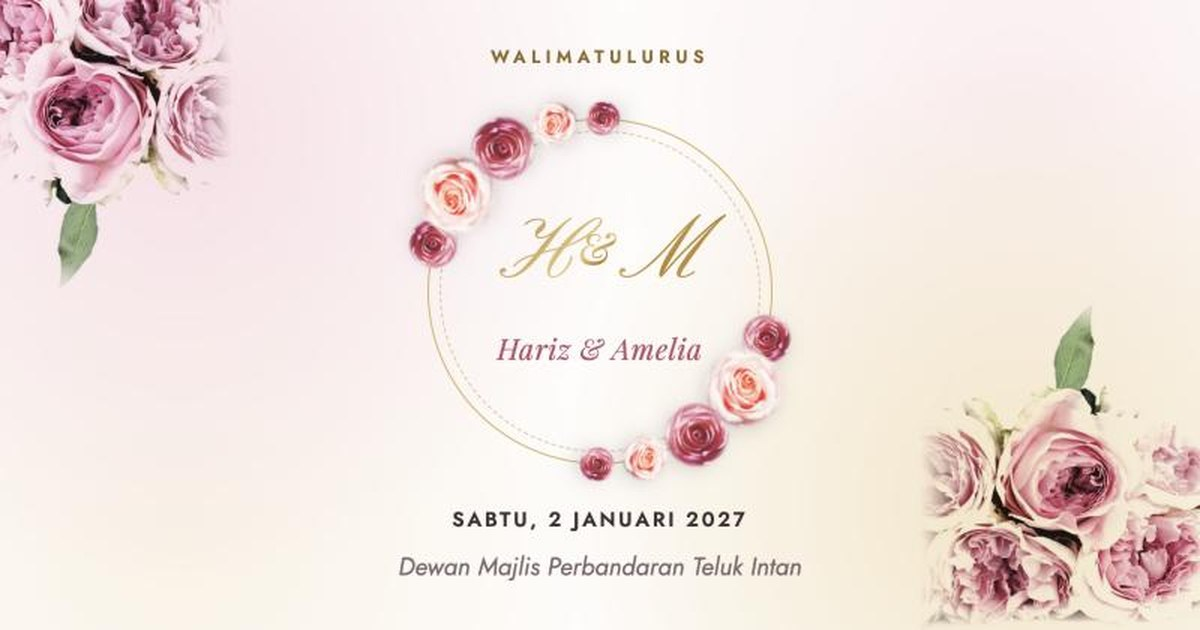
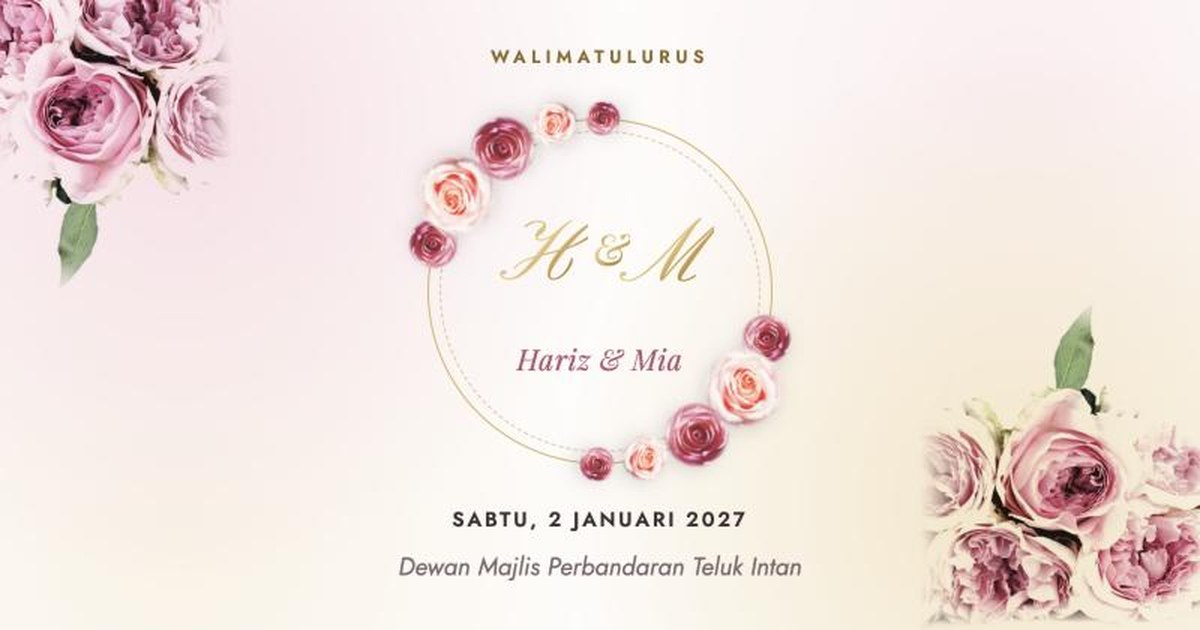
Remove RSVP, rename to Hariz & Mia, tighten monogram, stop sideways scroll
- Remove the RSVP section, its menu item, code and styles
- Short names now Hariz & Mia (page title, calendar file, preview image)
- Pull the M closer to the ampersand
- Clip the flower corners so the page no longer scrolls sideways on phones

Changed region(s): [[0.4008, 0.3317, 0.6167, 0.4524], [0.4008, 0.5429, 0.5858, 0.6032]]

diff --git a/index.html b/index.html
@@ -1,17 +1,18 @@
 <!doctype html>
 <html lang="ms">
+
 <head>
   <meta charset="utf-8" />
   <meta name="viewport" content="width=device-width, initial-scale=1" />
-  <title>Walimatulurus Hariz &amp; Amelia</title>
-  <meta name="description" content="Jemputan ke majlis perkahwinan Hariz &amp; Amelia, 2 Januari 2027, Teluk Intan." />
+  <title>Walimatulurus Hariz &amp; Mia</title>
+  <meta name="description" content="Jemputan ke majlis perkahwinan Hariz &amp; Mia, 2 Januari 2027, Teluk Intan." />
   <meta name="theme-color" content="#fffcfa" />
 
   <!-- Link preview card for WhatsApp, Facebook, Telegram etc.
        Uses the Cloudflare Pages address; change it here if the site moves (keep the trailing /). -->
   <meta property="og:type" content="website" />
   <meta property="og:url" content="https://hariz-amelia-weddinginvitation.pages.dev/" />
-  <meta property="og:title" content="Walimatulurus Hariz &amp; Amelia" />
+  <meta property="og:title" content="Walimatulurus Hariz &amp; Mia" />
   <meta property="og:description" content="Sabtu, 2 Januari 2027 · Dewan Majlis Perbandaran Teluk Intan. Anda dijemput hadir." />
   <meta property="og:image" content="https://hariz-amelia-weddinginvitation.pages.dev/assets/og-image.jpg" />
   <meta property="og:image:width" content="1200" />
@@ -22,25 +23,55 @@
   <link href="https://fonts.googleapis.com/css2?family=Amiri&family=Jost:ital,wght@0,400;0,500;0,600;1,400&family=Pinyon+Script&family=Playfair+Display:ital,wght@0,400;0,500;1,400;1,500&display=swap" rel="stylesheet" />
   <link rel="stylesheet" href="style.css" />
 </head>
+
 <body class="locked">
 
   <!-- Outline icons, reused with <use href="#i-name"> -->
   <svg width="0" height="0" style="position:absolute" aria-hidden="true">
     <defs>
       <!-- Outline icons for buttons: <svg class="icon"><use href="#i-name" /></svg> -->
-      <symbol id="i-mail-open" viewBox="0 0 24 24"><path d="M3 10.5 12 4l9 6.5V19a2 2 0 0 1-2 2H5a2 2 0 0 1-2-2z" /><path d="m3 10.5 9 6 9-6" /></symbol>
-      <symbol id="i-calendar" viewBox="0 0 24 24"><rect x="3" y="5" width="18" height="16" rx="3" /><path d="M3 10h18M8 3v4M16 3v4" /></symbol>
-      <symbol id="i-calendar-plus" viewBox="0 0 24 24"><rect x="3" y="5" width="18" height="16" rx="3" /><path d="M3 10h18M8 3v4M16 3v4M12 13v5M9.5 15.5h5" /></symbol>
-      <symbol id="i-check-circle" viewBox="0 0 24 24"><circle cx="12" cy="12" r="9" /><path d="m8 12.5 2.7 2.7L16 9.5" /></symbol>
-      <symbol id="i-x-circle" viewBox="0 0 24 24"><circle cx="12" cy="12" r="9" /><path d="m9 9 6 6M15 9l-6 6" /></symbol>
-      <symbol id="i-copy" viewBox="0 0 24 24"><rect x="9" y="9" width="12" height="12" rx="2" /><path d="M5 15H4.5A1.5 1.5 0 0 1 3 13.5v-9A1.5 1.5 0 0 1 4.5 3h9A1.5 1.5 0 0 1 15 4.5V5" /></symbol>
-      <symbol id="i-check" viewBox="0 0 24 24"><path d="m5 12.5 4.5 4.5L19 7" /></symbol>
-      <symbol id="i-pause" viewBox="0 0 24 24"><path d="M9 6v12M15 6v12" /></symbol>
-      <symbol id="i-scroll" viewBox="0 0 24 24"><path d="m7 6 5 5 5-5M7 13l5 5 5-5" /></symbol>
-      <symbol id="i-music" viewBox="0 0 24 24"><path d="M9 18V5l11-2v13" /><circle cx="6" cy="18" r="3" /><circle cx="17" cy="16" r="3" /></symbol>
-      <symbol id="i-music-off" viewBox="0 0 24 24"><path d="M9 18V5l11-2v13" /><circle cx="6" cy="18" r="3" /><circle cx="17" cy="16" r="3" /><path d="m3 3 18 18" /></symbol>
-      <symbol id="i-phone" viewBox="0 0 24 24"><path d="M5 4h3l2 5-2.5 1.5a11 11 0 0 0 6 6L15 14l5 2v3a2 2 0 0 1-2 2A16 16 0 0 1 3 6a2 2 0 0 1 2-2z" /></symbol>
-      <symbol id="i-chat" viewBox="0 0 24 24"><path d="M20 11.5a8 8 0 0 1-11.6 7.1L4 20l1.1-4.1A8 8 0 1 1 20 11.5z" /></symbol>
+      <symbol id="i-mail-open" viewBox="0 0 24 24">
+        <path d="M3 10.5 12 4l9 6.5V19a2 2 0 0 1-2 2H5a2 2 0 0 1-2-2z" />
+        <path d="m3 10.5 9 6 9-6" />
+      </symbol>
+      <symbol id="i-calendar" viewBox="0 0 24 24">
+        <rect x="3" y="5" width="18" height="16" rx="3" />
+        <path d="M3 10h18M8 3v4M16 3v4" />
+      </symbol>
+      <symbol id="i-calendar-plus" viewBox="0 0 24 24">
+        <rect x="3" y="5" width="18" height="16" rx="3" />
+        <path d="M3 10h18M8 3v4M16 3v4M12 13v5M9.5 15.5h5" />
+      </symbol>
+      <symbol id="i-copy" viewBox="0 0 24 24">
+        <rect x="9" y="9" width="12" height="12" rx="2" />
+        <path d="M5 15H4.5A1.5 1.5 0 0 1 3 13.5v-9A1.5 1.5 0 0 1 4.5 3h9A1.5 1.5 0 0 1 15 4.5V5" />
+      </symbol>
+      <symbol id="i-check" viewBox="0 0 24 24">
+        <path d="m5 12.5 4.5 4.5L19 7" />
+      </symbol>
+      <symbol id="i-pause" viewBox="0 0 24 24">
+        <path d="M9 6v12M15 6v12" />
+      </symbol>
+      <symbol id="i-scroll" viewBox="0 0 24 24">
+        <path d="m7 6 5 5 5-5M7 13l5 5 5-5" />
+      </symbol>
+      <symbol id="i-music" viewBox="0 0 24 24">
+        <path d="M9 18V5l11-2v13" />
+        <circle cx="6" cy="18" r="3" />
+        <circle cx="17" cy="16" r="3" />
+      </symbol>
+      <symbol id="i-music-off" viewBox="0 0 24 24">
+        <path d="M9 18V5l11-2v13" />
+        <circle cx="6" cy="18" r="3" />
+        <circle cx="17" cy="16" r="3" />
+        <path d="m3 3 18 18" />
+      </symbol>
+      <symbol id="i-phone" viewBox="0 0 24 24">
+        <path d="M5 4h3l2 5-2.5 1.5a11 11 0 0 0 6 6L15 14l5 2v3a2 2 0 0 1-2 2A16 16 0 0 1 3 6a2 2 0 0 1 2-2z" />
+      </symbol>
+      <symbol id="i-chat" viewBox="0 0 24 24">
+        <path d="M20 11.5a8 8 0 0 1-11.6 7.1L4 20l1.1-4.1A8 8 0 1 1 20 11.5z" />
+      </symbol>
     </defs>
   </svg>
 
@@ -62,7 +93,9 @@
       </div>
       <p class="date-line" data-bind="dateLong"></p>
       <p class="to">Kepada tetamu yang dihormati</p>
-      <button id="openBtn" class="btn btn-primary"><svg class="icon" aria-hidden="true"><use href="#i-mail-open" /></svg> Buka Jemputan</button>
+      <button id="openBtn" class="btn btn-primary"><svg class="icon" aria-hidden="true">
+          <use href="#i-mail-open" />
+        </svg> Buka Jemputan</button>
     </div>
   </div>
 
@@ -157,28 +190,6 @@
       </div>
     </section>
 
-    <section class="section" id="rsvp">
-      <h3 class="title">RSVP</h3>
-      <p class="small">Sila sahkan kehadiran anda sebelum <strong data-bind="rsvpBy"></strong></p>
-      <form id="rsvpForm" class="form">
-        <label>Nama<input name="name" required autocomplete="name" placeholder="Nama penuh" /></label>
-        <label>No. Telefon<input name="phone" type="tel" autocomplete="tel" placeholder="01X-XXXXXXX" /></label>
-        <fieldset class="choice">
-          <legend>Kehadiran</legend>
-          <label><input type="radio" name="attend" value="Hadir" checked /> <span><svg class="icon" aria-hidden="true"><use href="#i-check-circle" /></svg> Hadir</span></label>
-          <label><input type="radio" name="attend" value="Tidak Hadir" /> <span><svg class="icon" aria-hidden="true"><use href="#i-x-circle" /></svg> Tidak Hadir</span></label>
-        </fieldset>
-        <label id="paxField">Bilangan Tetamu
-          <select name="pax">
-            <option>1</option><option>2</option><option>3</option><option>4</option><option>5</option>
-            <option>6</option><option>7</option><option>8</option><option>9</option><option>10</option>
-          </select>
-        </label>
-        <button class="btn btn-primary" type="submit">Hantar RSVP</button>
-        <p class="form-status" role="status"></p>
-      </form>
-    </section>
-
     <section class="section" id="ucapan">
       <h3 class="title">Ucapan</h3>
       <form id="wishForm" class="form">
@@ -204,7 +215,9 @@
         <p class="value account" data-bind="bankAccount"></p>
         <p class="small" id="bankHolder" data-bind="bankHolder"></p>
         <div class="actions">
-          <button id="copyBtn" class="btn btn-ghost" type="button"><svg class="icon" aria-hidden="true"><use href="#i-copy" /></svg> Salin No. Akaun</button>
+          <button id="copyBtn" class="btn btn-ghost" type="button"><svg class="icon" aria-hidden="true">
+              <use href="#i-copy" />
+            </svg> Salin No. Akaun</button>
         </div>
       </div>
     </section>
@@ -237,7 +250,6 @@
   <nav class="bottom-nav" id="bottomNav" aria-label="Menu" hidden>
     <a href="#majlis"><svg viewBox="0 0 24 24" aria-hidden="true"><rect x="3" y="5" width="18" height="16" rx="3" /><path d="M3 10h18M8 3v4M16 3v4" /></svg><span>Majlis</span></a>
     <a href="#lokasi"><svg viewBox="0 0 24 24" aria-hidden="true"><path d="M12 21s-7-6.2-7-11.5a7 7 0 0 1 14 0C19 14.8 12 21 12 21z" /><circle cx="12" cy="9.5" r="2.5" /></svg><span>Lokasi</span></a>
-    <a href="#rsvp"><svg viewBox="0 0 24 24" aria-hidden="true"><rect x="3" y="5" width="18" height="14" rx="3" /><path d="M3.5 7.5 12 13l8.5-5.5" /></svg><span>RSVP</span></a>
     <a href="#ucapan"><svg viewBox="0 0 24 24" aria-hidden="true"><path d="M20 11.5a8 8 0 0 1-11.6 7.1L4 20l1.1-4.1A8 8 0 1 1 20 11.5z" /><path d="M8.5 11.5h.01M12 11.5h.01M15.5 11.5h.01" /></svg><span>Ucapan</span></a>
     <a href="#hadiah"><svg viewBox="0 0 24 24" aria-hidden="true"><rect x="3" y="8" width="18" height="5" rx="1" /><path d="M5 13v7h14v-7M12 8v12M12 8C10.5 4.5 6.5 4.5 7 7c.3 1 2.5 1 5 1zm0 0c1.5-3.5 5.5-3.5 5-1-.3 1-2.5 1-5 1z" /></svg><span>Hadiah</span></a>
     <a href="#hubungi"><svg viewBox="0 0 24 24" aria-hidden="true"><path d="M5 4h3l2 5-2.5 1.5a11 11 0 0 0 6 6L15 14l5 2v3a2 2 0 0 1-2 2A16 16 0 0 1 3 6a2 2 0 0 1 2-2z" /></svg><span>Hubungi</span></a>
@@ -245,11 +257,16 @@
 
   <!-- Floating controls -->
   <div class="fab-group" hidden id="fabs">
-    <button id="scrollBtn" class="fab" aria-label="Auto scroll" title="Auto scroll"><svg class="icon" aria-hidden="true"><use href="#i-pause" /></svg></button>
-    <button id="musicBtn" class="fab" aria-label="Lagu" title="Lagu"><svg class="icon" aria-hidden="true"><use href="#i-music" /></svg></button>
+    <button id="scrollBtn" class="fab" aria-label="Auto scroll" title="Auto scroll"><svg class="icon" aria-hidden="true">
+        <use href="#i-pause" />
+      </svg></button>
+    <button id="musicBtn" class="fab" aria-label="Lagu" title="Lagu"><svg class="icon" aria-hidden="true">
+        <use href="#i-music" />
+      </svg></button>
   </div>
 
   <script src="https://w.soundcloud.com/player/api.js"></script>
   <script src="script.js"></script>
 </body>
+
 </html>

diff --git a/style.css b/style.css
@@ -14,6 +14,9 @@
 }
 
 * { box-sizing: border-box; }
+/* The flower corners hang off the edges on purpose; clip them so the page never scrolls sideways */
+html { overflow-x: hidden; }
+@supports (overflow: clip) { html, body { overflow-x: clip; } }
 html { scroll-behavior: auto; }
 body {
   margin: 0;
@@ -57,7 +60,7 @@ body.locked { overflow: hidden; height: 100vh; }
   font-size: .5em; margin: 0 .1em;
 }
 /* The M's long entry stroke reads as extra space, so tuck it in slightly */
-.monogram .amp + span { margin-left: -.2em; }
+.monogram .amp + span { margin-left: -.32em; }
 .monogram.big { font-size: clamp(4.6rem, 26vw, 7rem); margin-bottom: .25rem; }
 .display-names {
   font-weight: 400; font-style: italic;
@@ -287,7 +290,7 @@ main { max-width: 560px; margin: 0 auto; padding: 0 16px; }
 .app-icon.waze svg { width: 84%; height: 84%; }
 .app-icon.amaps { background: linear-gradient(135deg, #8bd97a 0 50%, #c8ecff 50%); }
 
-/* ---------- Forms (RSVP & Ucapan) ---------- */
+/* ---------- Form (Ucapan) ---------- */
 .form {
   display: grid; gap: 14px; text-align: left;
   background: var(--paper); border: 2px solid var(--line); border-radius: 28px;
@@ -308,18 +311,6 @@ main { max-width: 560px; margin: 0 auto; padding: 0 16px; }
 }
 .form input:focus, .form select:focus, .form textarea:focus { border-color: var(--rose); }
 .form textarea { resize: vertical; }
-.choice { border: 0; padding: 0; margin: 0; display: grid; grid-template-columns: 1fr 1fr; gap: 10px; }
-.choice legend { margin-bottom: 6px; }
-.choice label { display: block; }
-.choice input { position: absolute; opacity: 0; width: 1px; height: 1px; }
-.choice span {
-  display: flex; align-items: center; justify-content: center; gap: 6px;
-  padding: 12px 6px; border-radius: 16px;
-  border: 2px solid #ecdccf; background: #fffafa;
-  font-size: .95rem; letter-spacing: 0; text-transform: none; color: var(--ink); cursor: pointer;
-}
-.choice input:checked + span { border-color: var(--rose); background: #fbe8ec; color: var(--rose); }
-.choice input:focus-visible + span { outline: 2px solid var(--gold-deep); outline-offset: 2px; }
 .form .btn { width: 100%; }
 .form [hidden] { display: none; }
 .form-status { margin: 0; text-align: center; font-family: "Jost", sans-serif; font-size: .9rem; color: var(--success); min-height: 1.2em; }
@@ -363,7 +354,7 @@ main { max-width: 560px; margin: 0 auto; padding: 0 16px; }
 .bottom-nav {
   position: fixed; left: 50%; bottom: 10px; translate: -50% 0; z-index: 40;
   width: min(calc(100% - 20px), 480px);
-  display: grid; grid-template-columns: repeat(6, 1fr); gap: 2px;
+  display: grid; grid-template-columns: repeat(5, 1fr); gap: 2px;
   background: rgba(255, 255, 255, .94); backdrop-filter: blur(8px);
   border: 2px solid #fff; border-radius: 22px; padding: 6px;
   box-shadow: 0 10px 26px -12px rgba(59, 43, 48, .45);

diff --git a/script.js b/script.js
@@ -1,7 +1,7 @@
 // ================== EDIT YOUR WEDDING DETAILS HERE ==================
 const CONFIG = {
   groom: "Hariz",
-  bride: "Amelia",
+  bride: "Mia",
   monogram: ["H", "M"], // initials shown large on the cover, top and closing
   groomFull: "Mohammad Hariz Bin Mohammad Nizam",
   brideFull: "Izreen Amelia binti Mohd Ismail",
@@ -38,9 +38,8 @@ const CONFIG = {
     end: 95,
   },
 
-  rsvpBy: "20 Disember 2026",
-  // Paste your Google Apps Script web app URL here (see google-apps-script.gs) to save RSVPs & ucapan
-  // into a Google Sheet. Left empty, guests send their RSVP / ucapan to `whatsapp` instead.
+  // Paste your Google Apps Script web app URL here (see google-apps-script.gs) to save ucapan
+  // into a Google Sheet. Left empty, guests send their ucapan to `whatsapp` instead.
   scriptUrl: "",
   whatsapp: "60XXXXXXXXX", // number with country code, no + or dashes
 
@@ -218,7 +217,7 @@ for (let i = 0; i < 16; i++) {
   petals.append(p);
 }
 
-// ---- RSVP & Ucapan ----
+// ---- Ucapan ----
 // With CONFIG.scriptUrl set, entries are saved to your Google Sheet; otherwise they open WhatsApp.
 const whatsappTo = (text) => window.open(`https://wa.me/${CONFIG.whatsapp}?text=${encodeURIComponent(text)}`, "_blank", "noopener");
 const sendToSheet = (data) =>
@@ -229,34 +228,6 @@ function setStatus(form, text, isError = false) {
   el.textContent = text;
   el.classList.toggle("error", isError);
 }
-
-const rsvpForm = $("rsvpForm");
-rsvpForm.addEventListener("change", () => {
-  $("paxField").hidden = rsvpForm.attend.value !== "Hadir";
-});
-rsvpForm.addEventListener("submit", async (e) => {
-  e.preventDefault();
-  const data = { type: "rsvp", ...Object.fromEntries(new FormData(rsvpForm)) };
-  if (data.attend !== "Hadir") data.pax = "0";
-  const thanks = data.attend === "Hadir" ? "Terima kasih! Kami nantikan kehadiran anda." : "Terima kasih atas makluman anda.";
-
-  if (!CONFIG.scriptUrl) {
-    whatsappTo(`RSVP Walimatulurus ${CONFIG.groom} & ${CONFIG.bride}\nNama: ${data.name}\nTelefon: ${data.phone || "-"}\nKehadiran: ${data.attend}\nBilangan: ${data.pax}`);
-    setStatus(rsvpForm, thanks);
-    return;
-  }
-  const btn = rsvpForm.querySelector("button");
-  btn.disabled = true;
-  try {
-    await sendToSheet(data);
-    rsvpForm.reset();
-    $("paxField").hidden = false;
-    setStatus(rsvpForm, thanks);
-  } catch {
-    setStatus(rsvpForm, "Maaf, tidak dapat dihantar. Sila cuba lagi.", true);
-  }
-  btn.disabled = false;
-});
 
 const wishList = $("wishes");
 const TONES = ["#b5566f", "#8f6b22", "#c4687f", "#a8842f", "#b5566f"];
